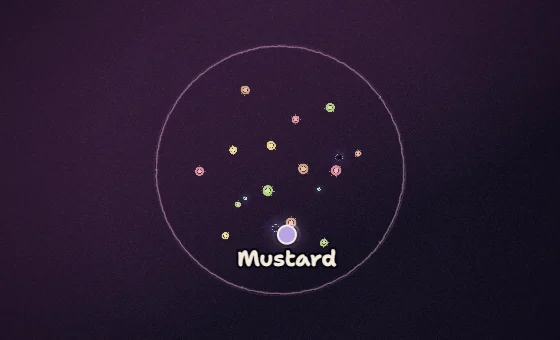
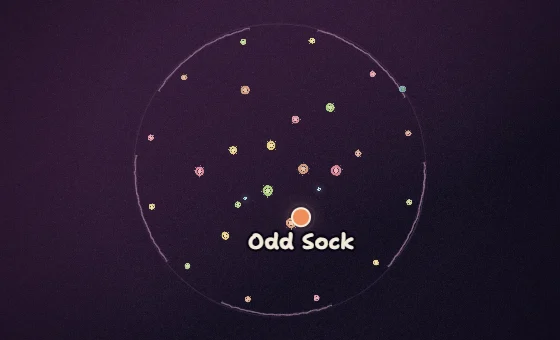
Docking Bay: losing is good. Bumper Field: bumpers round the edge
Docking Bay now runs the other way round. The racer left floating when the
last shuttle is taken escapes (ringed in green, "탈출!"), drifting off
rather than exploding; getting a seat means going round again. The last
one left is last place: the banner reads "{name} 꼴찌!" in red, places are
numbered from the first one out (round.js, mapDef.lastIsLoser), and the
Ranking lists the ones out first, in green, with the last one at the
bottom. The step card's goal line comes from the map (rules.goal).

Bumper Field has no black holes. A ring of twelve bumpers turns slowly
just inside the boundary and rides in with it, leaving once it would
crowd the field. The ring now has gaps (openFrac 0.38) so racers can be
bounced out, which is the only way out besides stalling; the stall check
is stricter here (30 units over 9 s), since racers ping-ponging between
bumpers are busy, not stuck. Measured over 15 races of 8: 28-68 s (was
26-65 s), three quarters of knockouts now by bouncing out.

diff --git a/src/maps/bumpers.js b/src/maps/bumpers.js
@@ -6,6 +6,10 @@
 //
 // The bumpers outlived the pinball map they were built for. They were the best
 // thing in it, and they never needed gravity to work.
+//
+// No black holes any more: a ring of bumpers turns slowly round the inside of
+// the boundary instead, riding in with it as it closes, so the edge itself
+// throws you about. Going past the ring is the only way out.
 
 import { makeRng, hashSeed } from '../rng.js';
 import { staticCircle, add, onCollide } from '../engine.js';
@@ -14,13 +18,17 @@ import { drawRing } from './common.js';
 import { softGlow } from '../sketch.js';
 import { PALETTE } from '../config.js';
 import {
-  createHole, updateHoles, holeCapturing, drawHoles,
   createPulsar, updatePulsars, drawPulsars,
   createStuckWatch,
   createArcFence, drawFence,
 } from './hazards.js';
 
 const ARENA = 1680;
+const RIM_COUNT = 12;     // bumpers in the ring round the edge
+const RIM_R = 34;         // their size
+const RIM_IN = 140;       // how far inside the boundary they ride
+const RIM_MIN = 1010;     // closer in than this they would crowd the field; they leave
+const RIM_TURN = 0.00007; // radians per ms the ring turns
 
 export default {
   id: 'bumpers',
@@ -31,7 +39,7 @@ export default {
   // The short version, shown above the description: how you go out, and
   // what to keep an eye on. The goal is the same everywhere.
   rules: {
-    out: "Bouncing past the shrinking ring, or into a black hole.",
+    out: "Bouncing past the shrinking ring.",
     watch: "Nothing ever slows down, so one big hit keeps you flying.",
   },
   description: "Repulsors and a closing ring, and nothing ever slows down.",
@@ -84,25 +92,29 @@ export default {
       }
     }
 
+    // The ring round the edge: evenly spaced so no stretch of the boundary is
+    // safer than another, in the same four colours as the field.
+    const rim = [];
+    for (let i = 0; i < RIM_COUNT; i++) {
+      const a = (i / RIM_COUNT) * Math.PI * 2;
+      const d = ARENA - RIM_IN;
+      const col = palette[i % palette.length];
+      const body = staticCircle(sim, Math.cos(a) * d, Math.sin(a) * d, RIM_R, {
+        restitution: 1.15, friction: 0, label: 'bumper',
+      });
+      add(sim, body);
+      const b = { body, r: RIM_R, col, flash: 0, sprite: bakeBumper(RIM_R, n, col), boil: n % 3, home: a, gone: false };
+      bumpers.push(b);
+      rim.push(b);
+      n++;
+    }
+    let rimTurn = 0;
+
     const pulsars = [];
     for (let i = 0; i < 2; i++) {
       const a = rng.range(0, Math.PI * 2) + i * Math.PI;
       const d = rng.range(380, 700);
       pulsars.push(createPulsar(sim, Math.cos(a) * d, Math.sin(a) * d, hashSeed('bfp', seed, i)));
-    }
-
-    const holes = [];
-    for (let i = 0; i < 2; i++) {
-      const a = rng.range(0, Math.PI * 2) + i * Math.PI;
-      const d = rng.range(340, 720);
-      const r = rng.range(25, 34);
-      holes.push(createHole(sim, {
-        x: Math.cos(a) * d, y: Math.sin(a) * d, r,
-        seed: hashSeed('bfh', seed, i),
-        drift: 0.45,
-        mu: r * 165,
-        maxAccel: 0.9,
-      }));
     }
 
     onCollide(sim, (a, b) => {
@@ -122,13 +134,16 @@ export default {
       }
     });
 
-    const stuckWatch = createStuckWatch();
+    // Stricter than the default: in a field this bouncy a racer can ping-pong
+    // hard between two bumpers and land near where it started, which is busy,
+    // not stuck. Only one that has truly stalled should go up.
+    const stuckWatch = createStuckWatch({ travel: 30, windowMs: 9000 });
 
     const fence = createArcFence(sim, {
       radius: ARENA,
       arcs: 5,
-      openFrac: 0,
-      spin: 0,
+      openFrac: 0.38,
+      spin: 0.00011,
       colour: '#D6A0C8',
       seed: hashSeed('fence', seed),
     });
@@ -163,27 +178,28 @@ export default {
         for (const b of bumpers) b.flash *= Math.pow(0.86, dt / 16.667);
         const alive = round.alivePlayers();
         updatePulsars(sim, pulsars, dt, alive, round.particles);
-        updateHoles(holes, dt, p, bounds, round.particles, { grow: 0.3, muGrow: 0.4 });
 
-        for (const h of holes) {
-          const d = Math.hypot(h.well.x, h.well.y);
-          const limit = this.edge - h.well.capture - 110;
-          if (d > limit && d > 0) {
-            h.well.x = (h.well.x / d) * limit;
-            h.well.y = (h.well.y / d) * limit;
-            h.vx *= -1;
-            h.vy *= -1;
+        // The edge ring turns and rides in with the boundary. Once the
+        // boundary closes far enough that it would crowd the field's own
+        // bumpers, it leaves.
+        rimTurn += dt * RIM_TURN;
+        const rimD = this.edge - RIM_IN;
+        for (const b of rim) {
+          if (b.gone) continue;
+          if (rimD < RIM_MIN) {
+            b.gone = true;
+            sim.Matter.Body.setPosition(b.body, { x: -99999, y: -99999 });
+            continue;
           }
+          const a = b.home + rimTurn;
+          sim.Matter.Body.setPosition(b.body, { x: Math.cos(a) * rimD, y: Math.sin(a) * rimD });
         }
 
         for (const pl of alive) {
           const pos = pl.body.position;
           if (Math.hypot(pos.x, pos.y) > this.edge) {
             round.kill(pl, 'drift', { at: pos });
-            continue;
           }
-          const h = holeCapturing(holes, pos);
-          if (h) round.kill(pl, 'hole', { at: pos, target: { x: h.well.x, y: h.well.y } });
         }
 
         stuckWatch(round.alivePlayers(), dt, (pl) => {
@@ -199,8 +215,8 @@ export default {
       },
 
       drawFront(g, cam, time) {
-        drawHoles(g, holes, time);
         for (const b of bumpers) {
+          if (b.gone) continue;
           const s = 1 + b.flash * 0.16;
           if (b.flash > 0.02) {
             softGlow(g, b.body.position.x, b.body.position.y, b.r * 3.4, b.col.glow, b.flash * 0.4);

diff --git a/src/hud.js b/src/hud.js
@@ -68,7 +68,13 @@ export function createHud() {
         setBanner(String(Math.max(1, left)), 'count-in');
       } else if (round.phase === PHASE.WINNER) {
         // With a roster, the name is the payoff. Without one, the word will do.
-        setBanner(round.winner && round.winner.name ? round.winner.name : t('winner'), 'winner');
+        // Where the last one left is the loser (Docking Bay), it says so.
+        const name = round.winner && round.winner.name;
+        if (round.mapDef.lastIsLoser) {
+          setBanner(name ? t('{name} is last!', { name }) : t('last place'), 'winner loser');
+        } else {
+          setBanner(name || t('winner'), 'winner');
+        }
       } else if (round.phase === PHASE.RUNNING && !round.idle && n <= ROUND.finalCallout && n > 1) {
         setBanner(t('final {n}', { n }), 'final');
       } else {
@@ -101,13 +107,14 @@ export function createHud() {
 
   // The causes, in the words someone watching would use. The engine's names
   // for them — scribble, boom — describe the drawing, not what happened.
-  // noShuttle is Docking Bay's: left floating when the last seat went.
+  // escaped is Docking Bay's: left floating when the last seat went, which
+  // there is the good way out.
   const CAUSE = {
     hole: 'black hole',
     drift: 'flung out',
     scribble: 'burned up',
     boom: 'blown apart',
-    noShuttle: 'no shuttle',
+    escaped: 'escaped',
   };
 
   // How long an entry stays on the left before it fades out. This is a feed of
@@ -150,9 +157,10 @@ export function createHud() {
     lastRank = sig;
 
     const alive = ps.filter((p) => p.alive);
+    const flipped = !!round.mapDef.lastIsLoser;
     if (el.rankCount) {
       el.rankCount.textContent = !ps.length ? ''
-        : round.winner ? t('winner')
+        : round.winner ? t(flipped ? 'last place' : 'winner')
           : alive.length === ps.length ? t('{n} entrants', { n: ps.length })
             : t('{n} left', { n: alive.length });
     }
@@ -175,15 +183,31 @@ export function createHud() {
       + `<span class="rank-name">${escapeHtml(p.label)}</span>`
       + `<span class="rank-status">${escapeHtml(status)}</span></li>`;
 
-    el.rankList.innerHTML = [
-      ...inRows.map((p) => (round.winner === p
-        ? row(p, '1', 'win', t('winner'))
-        : row(p, '·', 'in', t('in')))),
-      ...out.map((p) => row(p, String(p.place), 'out', t(CAUSE[p.outKind] || 'out'))),
-    ].join('');
+    // Docking Bay turns it upside down: whoever got out first finished first,
+    // so they lead the list in green, the ones still in sit below them, and
+    // the last one left comes last.
+    let shown;
+    let rows;
+    if (flipped) {
+      const still = alive.filter((p) => p !== round.winner);
+      shown = [...out, ...still, ...(round.winner ? [round.winner] : [])];
+      rows = [
+        ...out.map((p) => row(p, String(p.place), 'safe', t(CAUSE[p.outKind] || 'out'))),
+        ...still.map((p) => row(p, '·', 'in', t('in'))),
+        ...(round.winner ? [row(round.winner, String(ps.length), 'lose', t('last place'))] : []),
+      ];
+    } else {
+      shown = [...inRows, ...out];
+      rows = [
+        ...inRows.map((p) => (round.winner === p
+          ? row(p, '1', 'win', t('winner'))
+          : row(p, '·', 'in', t('in')))),
+        ...out.map((p) => row(p, String(p.place), 'out', t(CAUSE[p.outKind] || 'out'))),
+      ];
+    }
+    el.rankList.innerHTML = rows.join('');
 
     // Each icon in its racer's own colour, as it looks in the arena.
-    const shown = [...inRows, ...out];
     el.rankList.querySelectorAll('canvas.rank-icon').forEach((c, k) => paintThumb(c, shown[k].archetype, shown[k].col));
   }
 

diff --git a/src/i18n.js b/src/i18n.js
@@ -113,7 +113,7 @@ const KO = {
   'Crashing into the planet, a black hole, or drifting past the ring.': '행성이나 블랙홀에 부딪히거나, 고리 밖으로 떠내려가면 탈락.',
   'Getting knocked past the closing ring, or into a black hole.': '좁혀지는 고리 밖으로 밀려나거나, 블랙홀에 빠지면 탈락.',
   'Touching a star, a black hole, or getting flung past the ring.': '별이나 블랙홀에 닿거나, 고리 밖으로 튕겨 나가면 탈락.',
-  'Bouncing past the shrinking ring, or into a black hole.': '줄어드는 고리 밖으로 튕겨 나가거나, 블랙홀에 빠지면 탈락.',
+  'Bouncing past the shrinking ring.': '줄어드는 고리 밖으로 튕겨 나가면 탈락.',
   "Touching the star's core, or getting thrown past the ring.": '별의 중심에 닿거나, 고리 밖으로 내던져지면 탈락.',
   'Falling into a black hole, or drifting past the ring.': '블랙홀에 빠지거나, 고리 밖으로 떠내려가면 탈락.',
   'The holes creep toward the middle. Purple clouds slow you down; pulsars can fling you clear.': '블랙홀이 점점 가운데로 다가와요. 보라색 구름은 속도를 늦추고, 펄서는 멀리 튕겨 줄 수 있어요.',
@@ -206,14 +206,17 @@ const KO = {
   'Docking Bay': '도킹 정거장',
   'Leave Docking Bay': '도킹 정거장 나가기',
   'one shuttle short': '셔틀이 하나 모자라요',
-  'Still floating when the last shuttle is taken, or falling into a black hole.':
-    '마지막 셔틀까지 다 찼을 때 아직 떠다니거나, 블랙홀에 빠지면 탈락.',
-  'Every heat has one shuttle fewer than racers. Drift into a docking circle to get a seat. Pulsars shove you away, comets barge through, and black holes swallow you.':
-    '매 판마다 셔틀은 참가자보다 하나 적어요. 도킹 원 안으로 떠 들어가면 자리를 잡아요. 펄서는 밀어내고, 혜성은 부딪쳐 오고, 블랙홀은 삼켜 버려요.',
-  'There is always one shuttle too few: drift into a docking circle to take a seat, dodge the pulsars, comets and black holes, and whoever is left floating each heat is out.':
-    '셔틀은 늘 하나 모자라요. 도킹 원으로 떠 들어가 자리를 잡고, 펄서와 혜성과 블랙홀을 피하세요. 매 판 끝까지 떠다니는 한 명이 탈락해요.',
-  'No shuttle!': '셔틀 없음!',
-  'no shuttle': '셔틀 없음',
+  'Left floating when the last shuttle is taken: you escape. Falling into a black hole gets you out too.':
+    '마지막 셔틀까지 다 찼을 때 떠다니고 있으면 탈출! 블랙홀에 빠져도 빠져나가요.',
+  'Every heat has one shuttle fewer than racers. Getting a seat means going round again; the one left floating gets away.':
+    '매 판마다 셔틀은 참가자보다 하나 적어요. 셔틀에 타면 다음 판을 또 해야 하고, 셔틀을 못 탄 한 명은 빠져나가요.',
+  'Escape early. The last one left is last place.': '빨리 빠져나가세요. 마지막까지 남으면 꼴찌!',
+  'There is always one shuttle too few, and you want to be the one without: whoever is left floating each heat escapes, and the last one left is last place.':
+    '셔틀은 늘 하나 모자라요. 이번엔 셔틀을 못 타는 게 좋아요. 매 판 떠다니는 한 명이 탈출하고, 마지막까지 남은 사람이 꼴찌예요.',
+  'Escaped!': '탈출!',
+  'escaped': '탈출',
+  'last place': '꼴찌',
+  '{name} is last!': '{name} 꼴찌!',
   'Round {n} · {free} of {all} shuttles free': '{n}번째 판 · 빈 셔틀 {free}/{all}',
 
 };

diff --git a/src/maps/dock.js b/src/maps/dock.js
@@ -54,11 +54,17 @@ export default {
   theme: 'dock',
   population: [2, 16],
   blurb: 'one shuttle short',
+  // Losing is good here. The racer left floating without a shuttle escapes
+  // and is out of the race, safe; getting a seat means going again. The
+  // last one left, who kept getting seats, comes last. round.js numbers the
+  // places from the first one out, and hud.js says "last place" for the end.
+  lastIsLoser: true,
   rules: {
-    out: 'Still floating when the last shuttle is taken, or falling into a black hole.',
-    watch: 'Every heat has one shuttle fewer than racers. Drift into a docking circle to get a seat. Pulsars shove you away, comets barge through, and black holes swallow you.',
+    out: 'Left floating when the last shuttle is taken: you escape. Falling into a black hole gets you out too.',
+    watch: 'Every heat has one shuttle fewer than racers. Getting a seat means going round again; the one left floating gets away.',
+    goal: 'Escape early. The last one left is last place.',
   },
-  description: 'There is always one shuttle too few: drift into a docking circle to take a seat, dodge the pulsars, comets and black holes, and whoever is left floating each heat is out.',
+  description: 'There is always one shuttle too few, and you want to be the one without: whoever is left floating each heat escapes, and the last one left is last place.',
 
   build({ sim, seed }) {
     const { Matter } = sim;
@@ -442,7 +448,8 @@ export default {
         } else if (heat.phase === 'verdict') {
           if (heat.t >= VERDICT_MS) {
             const loser = heat.loser;
-            if (loser && loser.alive) round.kill(loser, 'boom', { at: loser.body.position, cause: 'noShuttle' });
+            // Escaping: drifting off into the dark, not blowing up.
+            if (loser && loser.alive) round.kill(loser, 'drift', { at: loser.body.position, cause: 'escaped' });
             if (round.aliveCount <= 1) {
               heat.phase = 'done';
               return;
@@ -506,17 +513,18 @@ export default {
           drawShuttle(g, s, time, k, occ || null);
         }
 
-        // The racer left floating, ringed in red while the verdict shows.
+        // The racer left floating, ringed in green while the verdict shows:
+        // here, being left without a shuttle is the good way out.
         if (heat && heat.phase === 'verdict' && heat.loser && heat.loser.body) {
           const pos = heat.loser.body.position;
           const pulse = 1 + 0.08 * Math.sin(time / 90);
           g.save();
-          g.strokeStyle = '#F08A7A';
+          g.strokeStyle = '#7ED491';
           g.lineWidth = 6;
           g.beginPath();
           g.arc(pos.x, pos.y, BODY.radius * 2 * pulse, 0, Math.PI * 2);
           g.stroke();
-          label(g, t('No shuttle!'), pos.x, pos.y - BODY.radius * 2.6, 40, '#F08A7A');
+          label(g, t('Escaped!'), pos.x, pos.y - BODY.radius * 2.6, 40, '#7ED491');
           g.restore();
         }
 

diff --git a/index.html b/index.html
@@ -702,6 +702,14 @@
   .rank-row.out { opacity: 0.55; }
   .rank-row.out .rank-name { text-decoration: line-through; text-decoration-thickness: 1px; }
   .rank-row.out .rank-icon { filter: grayscale(0.8); }
+  /* Docking Bay, where getting out is the good result: the ones out read as
+     safe, in green, and the last one left is marked as last place. */
+  .rank-row.safe .rank-place, .rank-row.safe .rank-status { color: #7ed491; }
+  body.light .rank-row.safe .rank-place, body.light .rank-row.safe .rank-status { color: #2f8a45; }
+  .rank-row.lose { color: #F08A7A; font-weight: 600; }
+  .rank-row.lose .rank-place, .rank-row.lose .rank-status { color: #F08A7A; }
+  body.light .rank-row.lose, body.light .rank-row.lose .rank-place,
+  body.light .rank-row.lose .rank-status { color: #C2463A; }
   .rank-empty { color: var(--ink-dim); font-style: italic; font-size: 12.5px; }
 
   /* ── Choose icon ────────────────────────────────────────────────────── */
@@ -1207,6 +1215,9 @@
   /* Shifted off centre: the winner is framed dead centre by then, and a word
      printed across it hides the thing you are meant to be looking at. */
   #banner.winner { font-size: 62px; letter-spacing: 0.05em; top: 27%; }
+  /* The same moment where the last one left is the loser (Docking Bay). */
+  #banner.winner.loser { color: #F08A7A; }
+  body.light #banner.winner.loser { color: #C2463A; }
 
   @keyframes slideIn {
     from { opacity: 0; transform: translateX(-14px); }

diff --git a/src/round.js b/src/round.js
@@ -129,12 +129,14 @@ export function createRound(mapDef, seed, audio, names = [], opts = {}) {
       if (!player.alive || round.aliveCount <= 1) return false;
       player.alive = false;
       round.aliveCount--;
-      // Where they finished, for the Ranking panel: the first out of ten is
-      // tenth. The feed's log is capped, so the place lives on the racer.
-      player.place = round.aliveCount + 1;
+      // Where they finished, for the Ranking panel (the feed's log is capped,
+      // so the place lives on the racer). Normally the first out of ten is
+      // tenth; on a map where the last one left is the loser (Docking Bay),
+      // the first out is first.
+      player.place = mapDef.lastIsLoser ? round.startCount - round.aliveCount : round.aliveCount + 1;
       // What the lists call it. Usually the kind itself, but a map can name
-      // the reason separately (Docking Bay's left-out racer still explodes,
-      // but went out for having no shuttle).
+      // the reason separately (Docking Bay's left-out racer drifts away like
+      // anyone flung out, but it escaped).
       const cause = opts.cause || kind;
       player.outKind = cause;
 

diff --git a/src/steps.js b/src/steps.js
@@ -35,7 +35,7 @@ export function createSteps() {
     return [
       [t('Line up'), t('Everyone waits on the line. Press Start to go.')],
       [t('Out if'), t(r.out || 'Knocked off the map.')],
-      [t('Goal'), t('Last one left wins.')],
+      [t('Goal'), t(r.goal || 'Last one left wins.')],
     ];
   }
 
